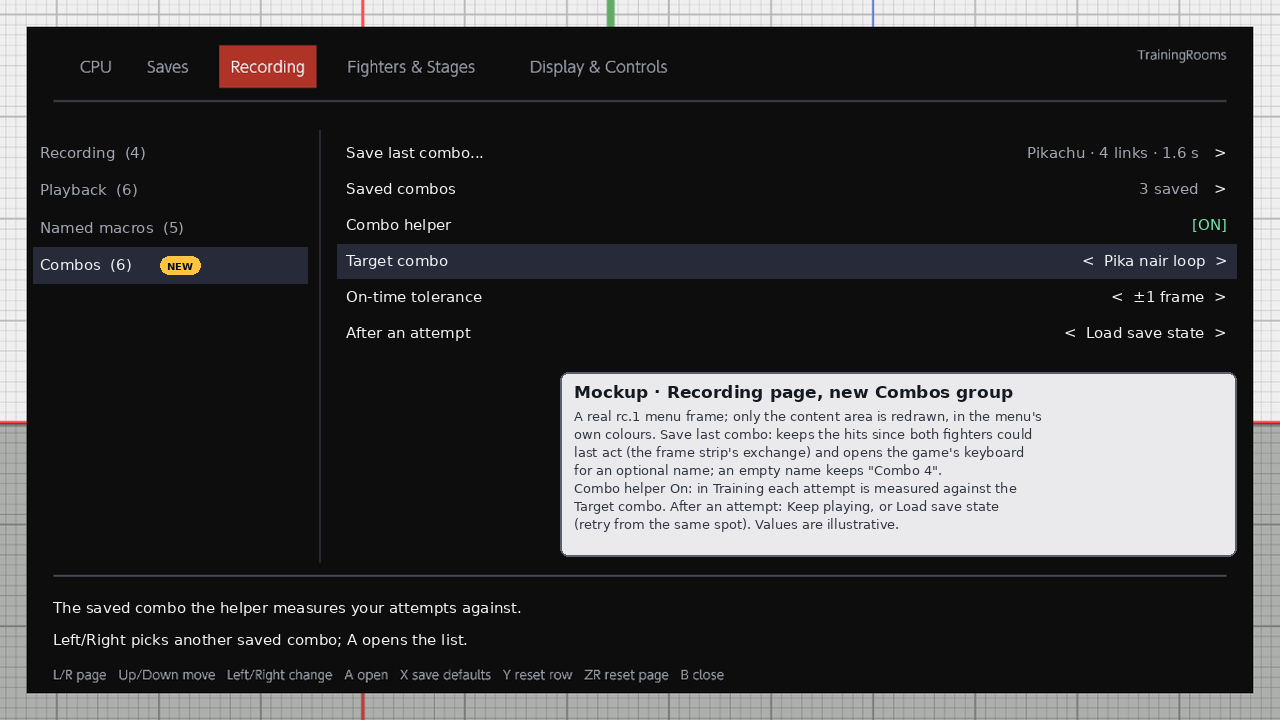
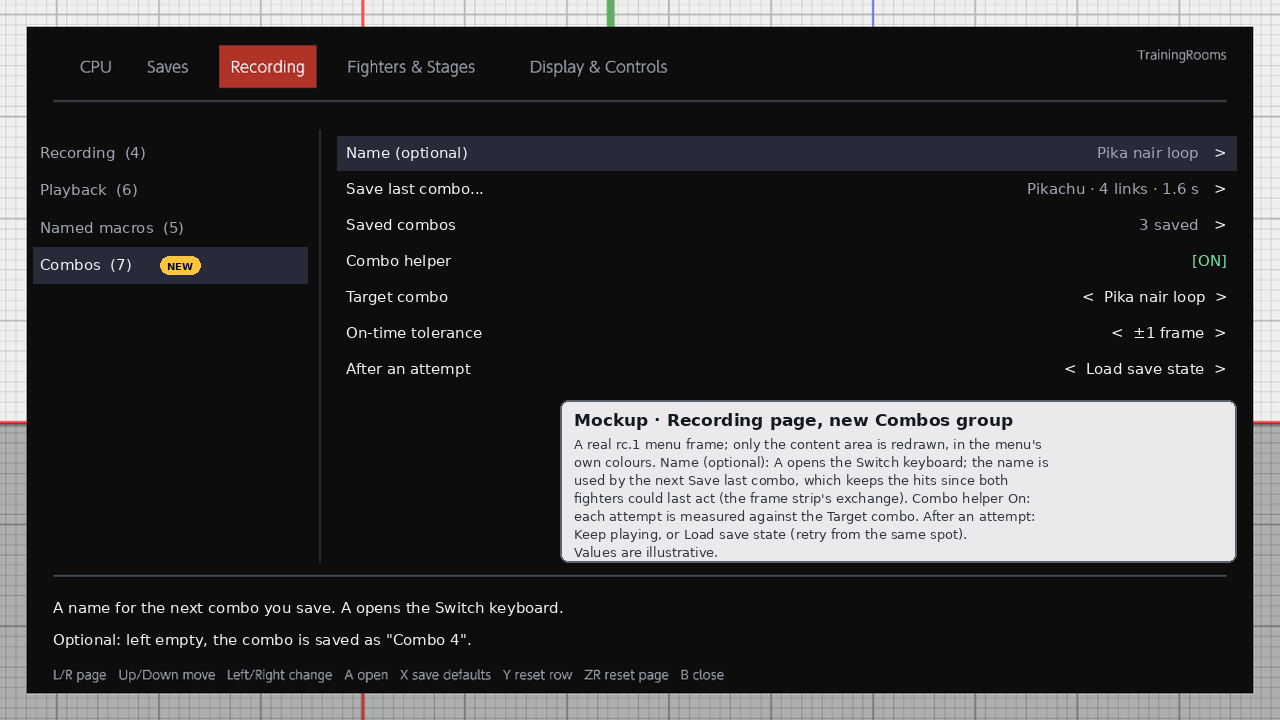
COMBO-HELPER: the name uses the Switch keyboard (operator 2026-11-05); Name row, keyboard schematic (docs only)
The operator's clarification "the name would use the keyboard":
- The Combos group gains a "Name (optional)" row first: A opens the Switch's on-screen keyboard, the typed name is used
  by the next Save last combo and appears in Saved combos (which renames with the same keyboard). Empty = "Combo N".
- New picture docs/decisions/COMBO-HELPER-menu-name-keyboard.png: the keyboard as a labelled schematic (system UI,
  not drawn from it) with what TrainingRooms passes in; the page and list pictures updated.
- DECISIONS.md feasibility: how the name reuses runtime/mii/native_keyboard (Training: ShowKeyboard with the preset
  default, header "Name combo", 48 characters; waiting room: the inline keyboard with the macro-name limit; one shared
  lease), how it opens from the menu (an editor row, as Named library), cancel/empty/failed/interrupted results, the
  48-character limit and the name field of combos/<id>.json; and what it needs beyond today: routing completions by
  owner (named_macros::service_keyboard drops other ids today), an owner for the combo-name job, menu input held
  while the inline keyboard is up.

diff --git a/tools/render_combo_helper.py b/tools/render_combo_helper.py
@@ -81,8 +81,9 @@ def new_tag(d, x, y):
 
 
 # ---- (a) The Recording page: a Combos group -----------------------------------------------------------------------
-GROUPS = [("Recording", 4), ("Playback", 6), ("Named macros", 5), ("Combos", 6)]
+GROUPS = [("Recording", 4), ("Playback", 6), ("Named macros", 5), ("Combos", 7)]
 ROWS = [
+    ("Name (optional)", "Pika nair loop", "action"),
     ("Save last combo...", "Pikachu · 4 links · 1.6 s", "action"),
     ("Saved combos", "3 saved", "action"),
     ("Combo helper", "[ON]", "on"),
@@ -90,7 +91,7 @@ ROWS = [
     ("On-time tolerance", "±1 frame", "pick"),
     ("After an attempt", "Load save state", "pick"),
 ]
-FOCUS = 3
+FOCUS = 0
 
 
 def clear_content(d, list_view=False):
@@ -106,7 +107,7 @@ def help_lines(d, first, second):
     text(d, (53, 640), second, MF, fill=M_TEXT, anchor="lm")
 
 
-def menu_page(bg):
+def menu_page(bg, annotate=True):
     img = bg.copy()
     d = ImageDraw.Draw(img)
     clear_content(d)
@@ -129,20 +130,73 @@ def menu_page(bg):
             w = d.textlength(">", font=MF)
             text(d, (VALUE_X, y), ">", MF, fill=M_TEXT, anchor="rm")
             text(d, (VALUE_X - w - 16, y), value, MF, fill=M_GROUP, anchor="rm")
-    help_lines(d, "The saved combo the helper measures your attempts against.",
-               "Left/Right picks another saved combo; A opens the list.")
+    help_lines(d, "A name for the next combo you save. A opens the Switch keyboard.",
+               "Optional: left empty, the combo is saved as \"Combo 4\".")
+    if not annotate:
+        return img
     o = iv.overlay()
     od = ImageDraw.Draw(o)
-    note(od, (560, 372, 1236, 556), "Mockup · Recording page, new Combos group", [
+    note(od, (560, 400, 1236, 562), "Mockup · Recording page, new Combos group", [
         "A real rc.1 menu frame; only the content area is redrawn, in the menu's",
-        "own colours. Save last combo: keeps the hits since both fighters could",
-        "last act (the frame strip's exchange) and opens the game's keyboard",
-        "for an optional name; an empty name keeps \"Combo 4\".",
-        "Combo helper On: in Training each attempt is measured against the",
-        "Target combo. After an attempt: Keep playing, or Load save state",
-        "(retry from the same spot). Values are illustrative.",
+        "own colours. Name (optional): A opens the Switch keyboard; the name is",
+        "used by the next Save last combo, which keeps the hits since both",
+        "fighters could last act (the frame strip's exchange). Combo helper On:",
+        "each attempt is measured against the Target combo. After an attempt:",
+        "Keep playing, or Load save state (retry from the same spot).",
+        "Values are illustrative.",
     ])
     img.alpha_composite(o)
+    return img
+
+
+def menu_keyboard(bg):
+    """The Name row's A: the Switch's own keyboard opens full screen over the game (ShowKeyboard). It is the
+    system's UI, so it is drawn here only as a labelled schematic: what TrainingRooms passes in (the header text,
+    the current name, the 48-character limit) and what comes back."""
+    img = menu_page(bg, annotate=False)
+    o = iv.overlay()
+    d = ImageDraw.Draw(o)
+    d.rectangle((0, 0, W, H), fill=(6, 8, 12, 214))
+    sheet = (150, 40, 1130, 575)
+    d.rounded_rectangle(sheet, radius=14, fill=(226, 229, 235, 255), outline=(255, 196, 64, 255), width=3)
+    text(d, (sheet[0] + 24, sheet[1] + 22), "SCHEMATIC · the Switch's own keyboard (system UI, not drawn from it)",
+         font(13, bold=True), fill=(150, 104, 0, 255))
+    text(d, ((sheet[0] + sheet[2]) / 2, sheet[1] + 72), "Name combo", font(22, bold=True), fill=(24, 28, 36, 255),
+         anchor="mm")
+    field = (sheet[0] + 120, sheet[1] + 102, sheet[2] - 120, sheet[1] + 152)
+    d.rounded_rectangle(field, radius=6, fill=(255, 255, 255, 255), outline=(120, 128, 140, 255), width=2)
+    typed = "Pika nair loop"
+    text(d, (field[0] + 16, (field[1] + field[3]) / 2), typed, font(20), fill=(24, 28, 36, 255), anchor="lm")
+    cx = field[0] + 16 + d.textlength(typed, font=font(20)) + 3
+    d.line([(cx, field[1] + 12), (cx, field[3] - 12)], fill=(40, 120, 220, 255), width=2)
+    text(d, (field[2] - 12, (field[1] + field[3]) / 2), f"{len(typed)} / 48", font(13), fill=(110, 118, 130, 255),
+         anchor="rm")
+    # A generic key grid: plain rounded squares, no system artwork.
+    kx0, ky0, key, gap = sheet[0] + 120, sheet[1] + 190, 62, 8
+    for row, count in enumerate((10, 10, 9, 7)):
+        indent = (10 - count) * (key + gap) / 2
+        for k in range(count):
+            x = kx0 + indent + k * (key + gap)
+            y = ky0 + row * (key + gap)
+            d.rounded_rectangle((x, y, x + key, y + key), radius=8, fill=(248, 249, 251, 255),
+                                outline=(170, 176, 188, 255), width=1)
+    sy = ky0 + 4 * (key + gap)
+    d.rounded_rectangle((kx0 + 2 * (key + gap), sy, kx0 + 7 * (key + gap) - gap, sy + key - 14), radius=8,
+                        fill=(248, 249, 251, 255), outline=(170, 176, 188, 255), width=1)
+    ok = (kx0 + 8 * (key + gap), sy, kx0 + 10 * (key + gap) - gap, sy + key - 14)
+    d.rounded_rectangle(ok, radius=8, fill=(64, 150, 230, 255))
+    text(d, ((ok[0] + ok[2]) / 2, (ok[1] + ok[3]) / 2), "OK", font(16, bold=True), fill=(255, 255, 255, 255),
+         anchor="mm")
+    img.alpha_composite(o)
+    lo = iv.overlay()
+    ld = ImageDraw.Draw(lo)
+    note(ld, (700, 588, 1268, 712), "Mockup · Name (optional) → the Switch keyboard", [
+        "Training: ShowKeyboard (preset default), header \"Name combo\", initial text",
+        "= the current name, 48 characters at most. Waiting room: the inline keyboard",
+        "Mii naming already uses. OK stores the name; B (cancel) keeps the old one;",
+        "OK on an empty field saves as \"Combo N\". The name appears in Saved combos.",
+    ])
+    img.alpha_composite(lo)
     return img
 
 
@@ -192,20 +246,21 @@ def menu_list(bg):
     for y in range(kb[1], kb[3], 14):
         od.line([(kb[0], y), (kb[0], min(y + 7, kb[3]))], fill=NEW, width=2)
         od.line([(kb[2], y), (kb[2], min(y + 7, kb[3]))], fill=NEW, width=2)
-    text(od, ((kb[0] + kb[2]) / 2, kb[1] + 70), "The game's keyboard opens here", font(16, bold=True), fill=NEW,
+    text(od, ((kb[0] + kb[2]) / 2, kb[1] + 62), "X rename: the Switch keyboard opens", font(16, bold=True),
+         fill=NEW, anchor="mm")
+    text(od, ((kb[0] + kb[2]) / 2, kb[1] + 90), "header \"Name combo\", the current name filled in", font(13),
+         fill=TEXT, anchor="mm")
+    text(od, ((kb[0] + kb[2]) / 2, kb[1] + 112), "48 characters at most · B keeps the old name", font(13),
+         fill=TEXT, anchor="mm")
+    text(od, ((kb[0] + kb[2]) / 2, kb[1] + 134), "OK on an empty field: \"Combo N\"", font(13), fill=TEXT,
          anchor="mm")
-    text(od, ((kb[0] + kb[2]) / 2, kb[1] + 98), "title \"Name combo\" · up to 48 characters", font(13), fill=TEXT,
-         anchor="mm")
-    text(od, ((kb[0] + kb[2]) / 2, kb[1] + 120), "empty name = \"Combo 4\" · cancel keeps the old name",
-         font(13), fill=TEXT, anchor="mm")
     note(od, (560, 330, 1236, 524), "Mockup · Saved combos", [
         "One file per combo in sd:/ultimate/TrainingRooms/combos/<id>.json, on the",
         "same Store as the named-macro and setup libraries (atomic writes, ids).",
         "Each holds P1's inputs, the per-link reference the frame strip measured,",
         "and the context: both fighters, the CPU's damage and DI settings.",
-        "X rename (and Save last combo) open the game's own keyboard,",
-        "titled \"Name combo\", 48 characters at most, as macros are named",
-        "today. The keyboard itself is the game's and is not drawn here.",
+        "The names are the ones typed on the Switch keyboard (Name (optional)",
+        "before saving, or X rename here); the name lives in the combo's file.",
         "The diamond and \"target\" mark the Target combo. Values illustrative.",
     ])
     img.alpha_composite(o)
@@ -453,6 +508,7 @@ def main():
     out = sys.argv[3]
     os.makedirs(out, exist_ok=True)
     for name, fn, bg in (("COMBO-HELPER-menu-recording-page", menu_page, menu_bg),
+                         ("COMBO-HELPER-menu-name-keyboard", menu_keyboard, menu_bg),
                          ("COMBO-HELPER-menu-saved-combos", menu_list, menu_bg),
                          ("COMBO-HELPER-A-combo-bar", option_a, game_bg),
                          ("COMBO-HELPER-B-link-ladder", option_b, game_bg)):

diff --git a/docs/DECISIONS.md b/docs/DECISIONS.md
@@ -895,7 +895,7 @@ hook and no new native site.
     (`src/runtime/macros/named_macros.rs:420-432`).
   - It runs on the generic `model::store::Store`: path-safe ids, atomic writes, a size cap
     (`src/model/macros/library.rs:1-48`). The setup library is a second user of the same store.
-- **Names:** the game's own keyboard (`runtime::mii::native_keyboard::request`, `named_macros.rs:337`), at most 48
+- **Names:** the Switch's own keyboard (`runtime::mii::native_keyboard::request`, `named_macros.rs:337`), at most 48
   characters (`MAX_NAME_CHARS`, `src/model/macros/recording.rs:23`).
 - **The frame strip** (`SPEC-input-06`, in progress at `c02cbb3`) emits one `frame_strip::Link` per follow-up:
   - fields: verdict, hit, free frame, `A₁`, press, input, window, and the two moves (`src/model/frame_strip.rs:214`);
@@ -909,9 +909,11 @@ hook and no new native site.
 
 **The menu.** Both pictures are mockups over the real rc.1 Recording page; values are illustrative.
 - **New group "Combos" on the Recording page:**
-  - *Save last combo...*: keeps the hits since both fighters could last act (the strip's exchange), then opens the
-    game's keyboard for an optional name. An empty name gives "Combo N".
-  - *Saved combos*: a list. A sets the target, X renames it with the keyboard, Y deletes it.
+  - *Name (optional)*: A opens the Switch's on-screen keyboard (operator 2026-11-05: "the name would use the
+    keyboard"). The typed name is used by the next *Save last combo* and then appears in *Saved combos*. Left empty,
+    the combo is saved as "Combo N".
+  - *Save last combo...*: keeps the hits since both fighters could last act (the strip's exchange), under that name.
+  - *Saved combos*: a list. A sets the target, X renames it with the same keyboard, Y deletes it.
   - *Combo helper*: On / Off.
   - *Target combo*: the saved combo to measure against.
   - *On-time tolerance*: ±0 / ±1 / ±2 frames.
@@ -920,7 +922,13 @@ hook and no new native site.
 
 ![Recording page: the Combos group](decisions/COMBO-HELPER-menu-recording-page.png)
 
-![Saved combos and the keyboard step](decisions/COMBO-HELPER-menu-saved-combos.png)
+![Name (optional): the Switch keyboard opens (schematic)](decisions/COMBO-HELPER-menu-name-keyboard.png)
+
+![Saved combos: the typed names](decisions/COMBO-HELPER-menu-saved-combos.png)
+
+The keyboard picture is a labelled schematic. The keyboard is the Switch's own UI and is not drawn from it; the
+picture shows what TrainingRooms passes in (the header "Name combo", the current name, the 48-character limit) and
+what comes back.
 
 **Two in-game layouts.** Both are over a real Eden Training frame (`p4zc-rc9`). It is the only Eden frame with Pikachu
 on screen, and there Pikachu is the CPU and P1 is Steve. The numbers illustrate a P1 Pikachu short-hop nair loop: five
@@ -975,6 +983,45 @@ dropped by 1f: jump 2f late") and the last 8 attempts.
     - Its records are CPU playback macros (placement, Mii identity, the CPU's *Named Library* source would list
       them).
     - A combo field there would need a schema bump, which older readers refuse.
+- **The name, on the Switch keyboard.** This reuses the plugin's keyboard path: the one named macros are named with,
+  whose inline adapter the Mii editor shares (`src/runtime/mii/native_keyboard.rs`,
+  `native_keyboard/inline_keyboard.rs`; lines at `main` `36d7f46`).
+  - **Which keyboard:**
+    - In Training, `request(id, "Name combo", current name)` opens the full-screen system keyboard: `ShowKeyboard`
+      with `make_preset_default`, the header text (64 UTF-16 units at most) and the initial text (`:75`, `:327-373`).
+    - In waiting-room practice, `request_inline(id, current name, cursor)` uses the inline keyboard with the
+      macro-name limit (`:89`). That is the transport waiting naming already uses there (`:5-6`).
+    - Only one keyboard is ever open: one shared lease across both transports and the Mii editor
+      (`inline_keyboard.rs:21-29`).
+  - **How it opens from our menu:**
+    - *Name (optional)* and the list's X are editor rows handled at run time, as *Named library* is
+      (`src/runtime/ui/external.rs:20-28`).
+    - A queues the request only when `native_keyboard::busy()` is false (`:116`) and no macro naming is pending.
+    - The keyboard opens at the UI boundary where `service` already runs (`named_macros::service_keyboard`, called
+      from `src/runtime/macros/port.rs:152`).
+  - **The result:**
+    - `Confirmed(name)`: the name is trimmed and kept.
+    - An empty name gives the default "Combo N", the lowest unused number.
+    - `Cancelled` (B): the previous name stays, or none.
+    - `Failed`: a notice ("The keyboard could not open"), and the name is unchanged.
+    - `Interrupted` (a scene change): the name is unchanged.
+    - The names are never written to the diagnostics log, as today (`native_keyboard.rs:278`).
+  - **Length and storage:**
+    - The limit is 48 characters, the same `MAX_NAME_CHARS` as macros, setups and Mii drafts (`native_keyboard.rs:26`,
+      `src/model/macros/recording.rs:23`). The keyboard itself is capped at 48 (`write_max_length`).
+    - The name is the `name` field of `combos/<id>.json`. The file's id is the store's path-safe stem and never
+      changes on a rename, so a rename rewrites only that field (the store's atomic overwrite).
+    - Until the next save, the draft name lives in the menu state, not in `settings.json`.
+  - **What it needs beyond today's path:**
+    - **Routing completions by owner.** `poll()` hands out every completion (`native_keyboard.rs:108`), and today's
+      only caller, `named_macros::service_keyboard`, drops one whose id is not its own (`named_macros.rs:567-573`). A
+      combo name's result would be lost. The fix is a small dispatcher: ids carry their owner (e.g. the high byte),
+      and `service_keyboard` passes the others on, or the poll moves into a shared keyboard service.
+    - **An owner for the combo-name job:** its id, what it names (the draft or a saved combo's id), and a check that
+      the combo still exists when the result arrives.
+    - **The menu while the keyboard is up:** in Training `ShowKeyboard` is synchronous and full screen, so the menu
+      simply waits. In the waiting room the inline keyboard runs alongside, so the menu ignores input until the
+      result arrives.
 - **Native reads:** no new hook and no new site. The helper uses the strip's samples and P1's inputs. Two optional
   extra reads, both on existing sites:
   - P1's `MotionModule::motion_kind` (`src/model/sites_pkg2.rs:39`, read today for the CPU only), to tell aerials
@@ -998,7 +1045,8 @@ dropped by 1f: jump 2f late") and the last 8 attempts.
     action.
   - **Hitstun left (`r`, `K`) is not proven yet** (SPEC-input-06 §4). Until it is, TRUE links have no number, in the
     reference too.
-  - **The keyboard** is driven through `named_macros`' job queue today. The helper needs its own job id there.
+  - **The keyboard's completions** are taken by `named_macros` today. A second owner needs the routing described
+    under *The name, on the Switch keyboard*.
   - **Limits it shares with the strip:** primary CPU only; projectile hits count as hits but have no active cells.
 
 **Steps, in order:**
@@ -1010,7 +1058,8 @@ dropped by 1f: jump 2f late") and the last 8 attempts.
    with host tests.
 3. **The menu:**
    - the Combos rows (`table.rs`, `factory.rs`: `combo_helper`, `combo_tolerance`, `combo_after`);
-   - the Saved combos screen, with rename through the native keyboard under its own job id;
+   - *Name (optional)* and the Saved combos screen, both naming through the Switch keyboard: the combo-name owner
+    and the completion routing by owner;
    - core02 menu tests.
 4. **Capture:** a fixed ring of the current exchange, kept in the strip's per-frame step: P1 inputs (600) and links
    (16). *Save last combo* builds the record on the worker thread, not in a hook.
